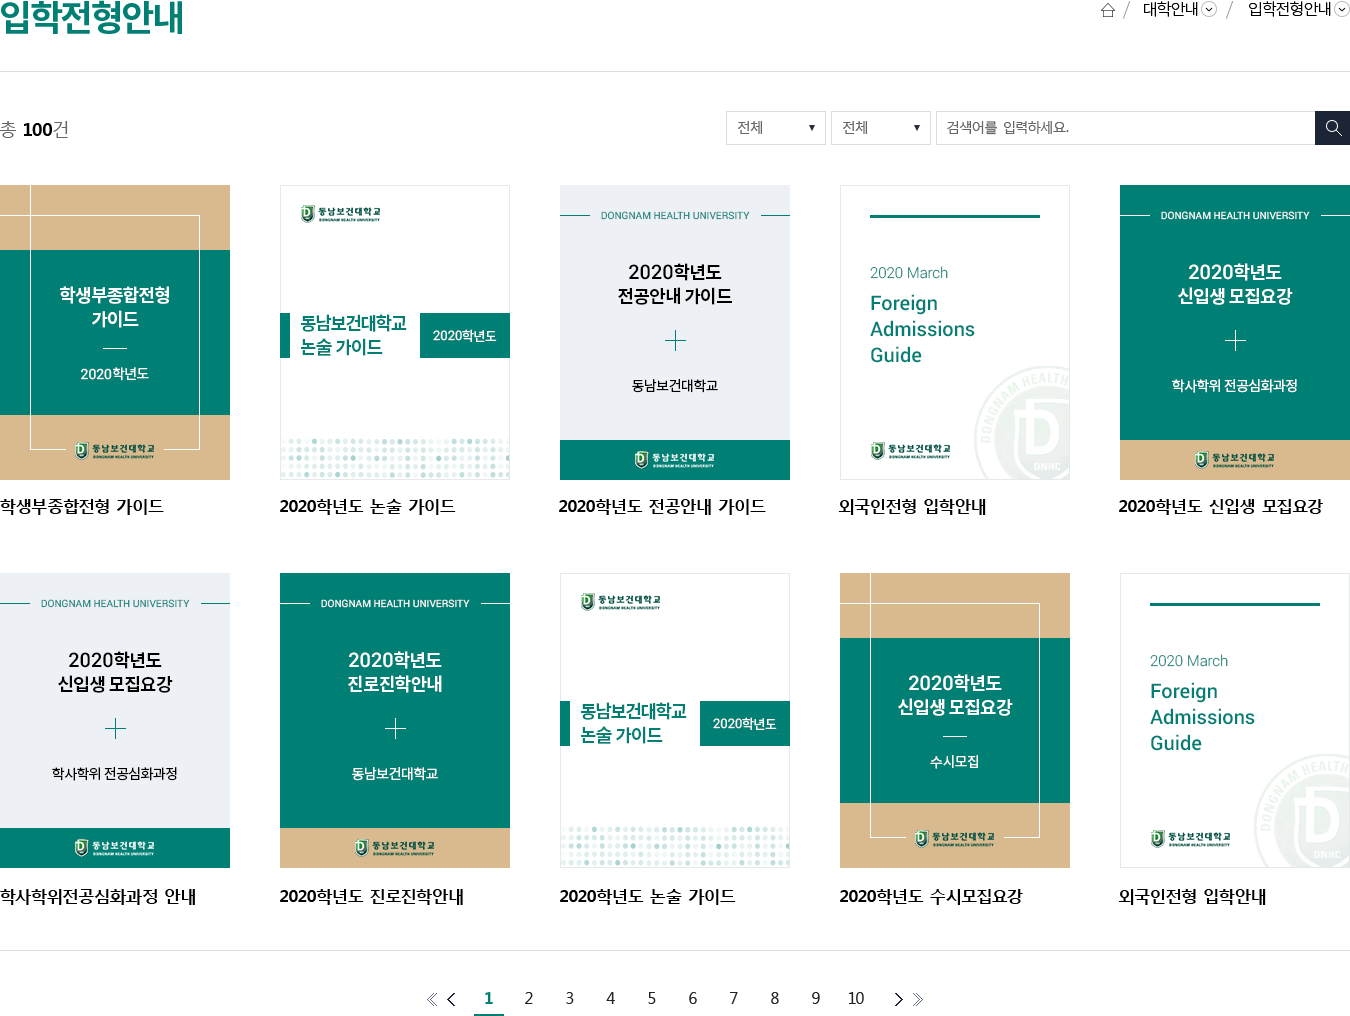
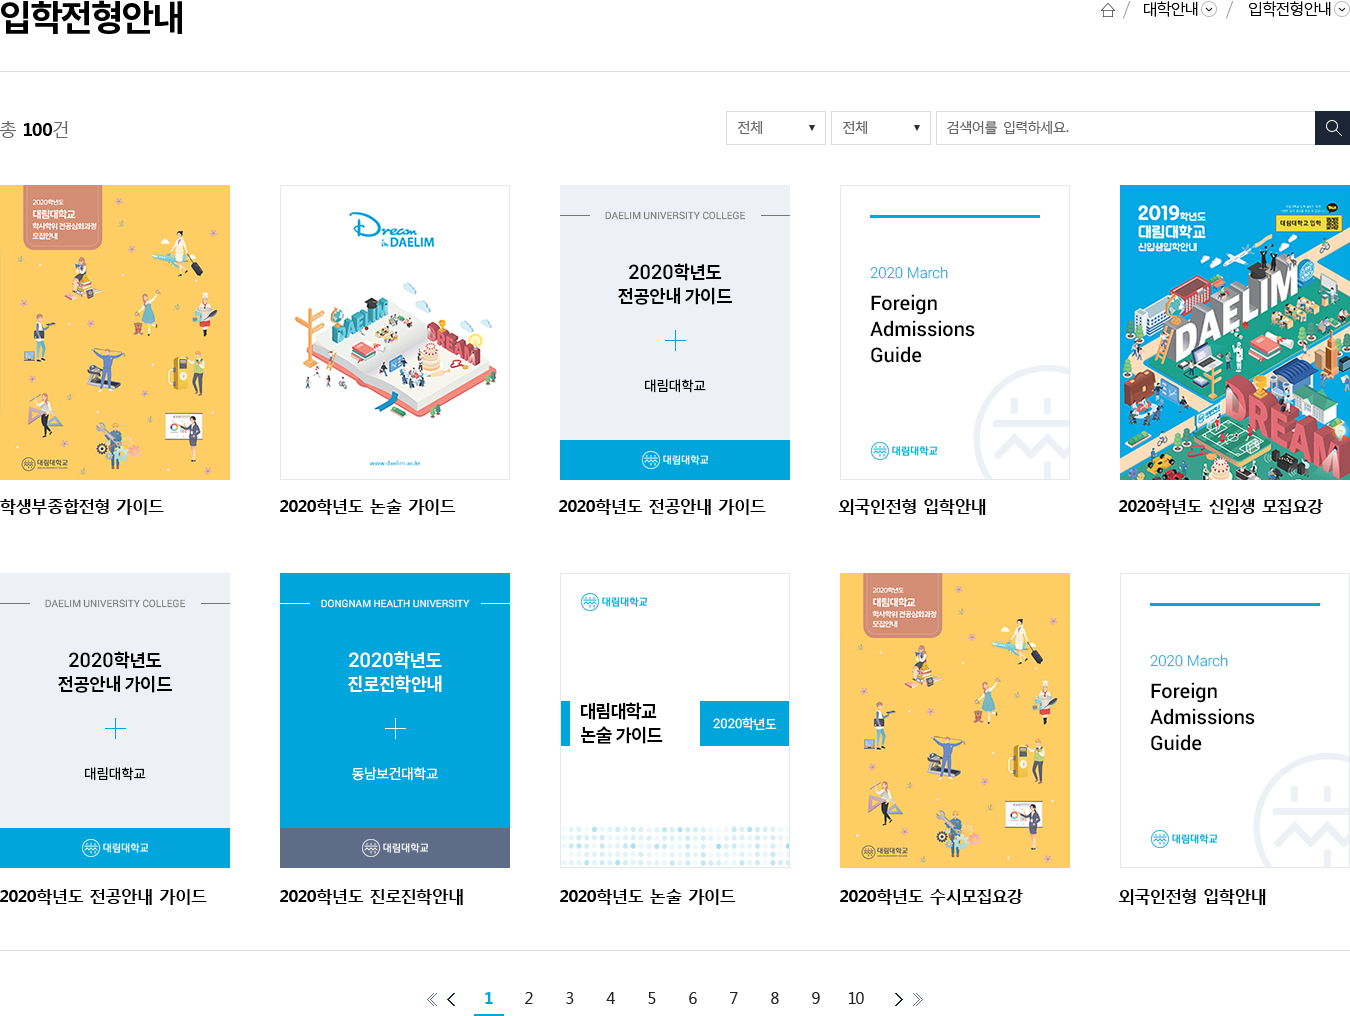
finish -m1

diff --git a/css/ipsi_a.css b/css/ipsi_a.css
@@ -28,7 +28,7 @@ figure {margin:0;padding:0}
 #header .header .gnb {overflow:hidden;padding-left:156px;padding-top:31px;border-top:2px solid #00a6db}
 #header .header .util {position:absolute;right:232px;top:34px;overflow:hidden;}
 .mVisual {padding-top:95px;text-align: center;background:#edf1f4}
-.mVisual .mainSl > span {position:absolute;display:block;width:100%;height:476px;background:#16b289;left:0}
+.mVisual .mainSl > span {position:absolute;display:block;width:100%;height:476px;background:#138add;left:0}
 .mVisual .pattern {position:absolute;width:47px;height:47px;border-radius:50%;left:120px;top:70px;opacity:0;animation:pattern 0.8s ease-out 0.7s forwards;background:#c585ff}
 @keyframes pattern {
     0% {
@@ -52,13 +52,14 @@ figure {margin:0;padding:0}
 .mVisual .mainSl .left .unit {position:relative;width:1078px;opacity: 1;}
 .mVisual .mainSl .left .slick-dots {position:absolute;margin-left:85px;margin-top:-90px;}
 .mVisual .mainSl .left .slick-dots li {display:inline-block;width:10px;height:10px;border-radius: 50%;background:#fff;opacity: 0.4;font-size:0;vertical-align: top;margin-left:10px;transition:0.5s all;}
-.mVisual .mainSl .left .slick-dots li.slick-active {width:35px;opacity: 1;border-radius: 30px;background:#00c1ff;}
+.mVisual .mainSl .left .slick-dots:after {content:'';position:absolute;display:block;margin-left:72px;margin-top:-22px;width:9px;height:12px;background:url(../img/ipsi_a/pause.png) no-repeat;}
 .mVisual .mainSl .left .txt {position:absolute;left:95px;top:160px;}
 .mVisual .mainSl .left .txt img {display:block;position:relative;opacity:0;left:-80px;}
 .mVisual .mainSl .left .txt img:first-child {margin-bottom:30px}
 .mVisual .mainSl .right {position:relative;float:left;width:362px;height:476px;opacity: 1;}
 .mVisual .mainSl .right .unit img {margin: 0 auto;}
 .mVisual .mainSl .right .slick-dots {position:absolute;left:50%;margin-left:-13px;margin-top:-40px;}
+.mVisual .mainSl .right .slick-dots:after {content:'';position:absolute;display:block;margin-left:36px;margin-top:-23px;width:9px;height:12px;background:url(../img/ipsi_a/pause.png) no-repeat;}
 .mVisual .mainSl .right .slick-dots li {display:inline-block;width:8px;height:8px;border-radius: 50%;background:#fff;opacity: 0.4;font-size:0;vertical-align: top;}
 .mVisual .mainSl .right .slick-dots li + li {margin-left:10px;}
 .mVisual .mainSl .right .slick-dots li.slick-active {opacity: 1;}

diff --git a/ipsi_b_sub.html b/ipsi_b_sub.html
@@ -1,11 +1,13 @@
 <!DOCTYPE html>
 <html lang="ko">
 <head>
+<!--[if IE 8]>    <html lang="kor" class="ie8"> <![endif]-->
 <meta charset="utf-8">
 <meta name="viewport" content="width=device-width, initial-scale=1.0">
 <meta http-equiv="X-UA-Compatible" content="ie=edge">
-<title>동남보건대학교</title>
-<script type="text/javascript" src="js/jquery-2.2.1.min.js"></script>
+<title>대림대학교</title>
+<script src="http://code.jquery.com/jquery-1.9.0.js"></script>
+<script src="http://code.jquery.com/jquery-migrate-1.2.1.js"></script>
 <script type="text/javascript" src="js/jquery.easing.1.3.js"></script>
 
 <script type="text/javascript" src="js/slick/slick.min.js"></script>
@@ -24,7 +26,6 @@ $(function(){
             var navTop = $('.nav').offset().top;
             var headerHeight = $(window).innerHeight() - 360;
             cont_loc = $(window).scrollTop();
-            console.log(cont_loc);
             console.log(headerHeight);
 
             if(cont_loc >= 360){
@@ -37,23 +38,23 @@ $(function(){
 });
 </script>
 <style>
-.logo {position:absolute;top:50px;left:230px !important;width:350px !important;height:90px !important;z-index: 100;}
+.logo {position:absolute;top:50px;left:230px !important;width:350px !important;height:90px !important;z-index: 100;background:red;-ms-filter:"progid:DXImageTransform.Microsoft.Alpha(Opacity=0)";opacity:0;}
 </style>
 </head>
 <body class="typeSub">
     <div class="wrap">
-        <header>
+        <div class="header">
             <div class="headerInner">
                 <a href="ipsi_b_mobile.html" class="logo"></a>
                 <img src="img/ipsi_b/sub/gnb.png" alt="">
             </div>
-        </header>
+        </div>
         <div id="container">
             <img src="img/ipsi_b/sub/cont.png" alt="">
         </div>
-        <footer>
+        <div class="footer">
             <img src="img/ipsi_b/sub/footer.png" alt="">
-        </footer>
+        </div>
     </div>
     
 

diff --git a/ipsi_a_mobile.html b/ipsi_a_mobile.html
@@ -2,14 +2,15 @@
 <!DOCTYPE html>
 <html lang="ko">
 <head>
+<!--[if IE 8]>    <html lang="kor" class="ie8"> <![endif]-->
 <meta charset="utf-8">
 <meta name="viewport" content="width=device-width, initial-scale=1.0">
 <meta http-equiv="X-UA-Compatible" content="ie=edge">
-<title>동남보건대학교</title>
-<script type="text/javascript" src="js/jquery-2.2.1.min.js"></script>
+<title>대림대학교</title>
+<script src="http://code.jquery.com/jquery-1.9.0.js"></script>
+<script src="http://code.jquery.com/jquery-migrate-1.2.1.js"></script>
 <script type="text/javascript" src="js/jquery.easing.1.3.js"></script>
 
-<script type="text/javascript" src="js/slick/slick.min.js"></script>
 <link rel="stylesheet" type="text/css" href="js/slick/slick.css"/>
 
 <script type="text/javascript" src="js/mCustomScrollbar/jquery.mCustomScrollbar.concat.min.js"></script>
@@ -19,19 +20,23 @@
 
 <script>
 $(function(){
-    $("#mobileBox>section").mCustomScrollbar();
+    if($('html').hasClass('ie8')){
+        
+    }else{
+        $("#mobileBox>.section").mCustomScrollbar();
+    }
 });
 </script>
 <style>
-#mobileBox>section .logo {width:150px;height:60px;}
+#mobileBox>.section .logo {width:150px;height:60px;}
 </style>
 </head>
 <body class="type_mobile" style="overflow-y:hidden;">
     <div id="mobileBox">
-        <section>
+        <div class="section">
             <a href="kor_b_main.html" class="logo"></a>
-            <img src="img/kor_a/mobile_ipsi_sub.jpg" />
-        </section>
+            <img src="img/ipsi_a/mobile.jpg" />
+        </div>
     </div>
 
 </body>

diff --git a/css/kor_a.css b/css/kor_a.css
@@ -187,9 +187,8 @@ body.typeSub {overflow-x:hidden;overflow-y:auto;}
 body.typeSub #header header .util {position:fixed;}
 body.typeSub.typeSticky #header header .util .top_util {top:-9px;}
 .typeSub .quick {position:fixed;right:90px;top:430px;z-index:1000}
-
 #pcBox .logo,
-#mobileBox .logo {display:block;position:absolute;left:0;top:0;width:50%;height:50px;z-index:10;/*background:red;opacity:0.5;*/}
+#mobileBox .logo {display:block;position:absolute;left:0;top:0;width:50%;height:50px;z-index:9999;background:red;-ms-filter:"progid:DXImageTransform.Microsoft.Alpha(Opacity=0)";opacity:0;}
 #pcBox div,
 #mobileBox div {font-size:0;}
 
@@ -197,8 +196,6 @@ body.typeSub.typeSticky #header header .util .top_util {top:-9px;}
 #pcBox {position:relative;width:1920px;margin:0 auto;}
 
 /* 모바일 */
-#mobileBox {position:relative;left:50%;top:50%;overflow:hidden;width:475px;height:838px;transform:translate(-50%, -50%);background:url(../img/bg_phone.png) no-repeat left top;}
-#mobileBox>section {position:relative;overflow-x:hidden;overflow-y:auto;width:345px;height:655px;margin:81px 0 0 65px;font-size:0;}
-#mobileBox>section img {width:100%;max-width:100%;}
-
-sub
+#mobileBox {position:relative;left:50%;top:50%;overflow:hidden;width:475px;height:838px;margin-top:-419.5px;margin-left:-287.5px;top:50%;left:50%;background:url(../img/bg_phone.png) no-repeat left top;}
+#mobileBox>.section {position:relative;overflow-x:hidden;overflow-y:auto;width:345px;height:655px;margin:81px 0 0 65px;font-size:0;}
+#mobileBox>.section img {width:100%;max-width:100%;}

diff --git a/ipsi_b_mobile.html b/ipsi_b_mobile.html
@@ -2,13 +2,14 @@
 <!DOCTYPE html>
 <html lang="ko">
 <head>
+<!--[if IE 8]>    <html lang="kor" class="ie8"> <![endif]-->
 <meta charset="utf-8">
 <meta name="viewport" content="width=device-width, initial-scale=1.0">
 <meta http-equiv="X-UA-Compatible" content="ie=edge">
-<title>동남보건대학교</title>
-<script type="text/javascript" src="js/jquery-2.2.1.min.js"></script>
+<title>대림대학교</title>
+<script src="http://code.jquery.com/jquery-1.9.0.js"></script>
+<script src="http://code.jquery.com/jquery-migrate-1.2.1.js"></script>
 <script type="text/javascript" src="js/jquery.easing.1.3.js"></script>
-
 <script type="text/javascript" src="js/slick/slick.min.js"></script>
 <link rel="stylesheet" type="text/css" href="js/slick/slick.css"/>
 
@@ -18,9 +19,13 @@
 <link rel="stylesheet" type="text/css" href="css/kor_a.css" />
 
 <script>
-$(function(){
-    $("#mobileBox>section").mCustomScrollbar();
-});
+    $(function () {
+        if ($('html').hasClass('ie8')) {
+
+        } else {
+            $("#mobileBox>.section").mCustomScrollbar();
+        }
+    });
 </script>
 <style>
 #mobileBox>section .logo {width:150px;height:60px;}
@@ -30,10 +35,10 @@ body {overflow-y:hidden}
 <body class="type_mobile">
 
     <div id="mobileBox">
-        <section>
+        <div class="section">
             <a href="temp_a_main.html" class="logo"></a>
-            <img src="img/kor_b/mobile_ipsi_sub.jpg" />
-        </section>
+            <img src="img/ipsi_b/mobile.jpg" />
+        </div>
     </div>
 
 </body>

diff --git a/css/ipsi_b_sub.css b/css/ipsi_b_sub.css
@@ -24,10 +24,10 @@ figure {margin:0;padding:0}
 body.typePride {overflow:hidden;}
 
 .wrap {position:relative;overflow-x:hidden;width:100%;margin:0 auto;text-align: center;font-size: 0;}
-header {font-size:0;background:url(../img/ipsi_b/sub/gnbbg.png) repeat-x;}
-header  img {position: relative;}
-header .headerInner {position:relative;max-width:1920px;margin: 0 auto;}
+.header {font-size:0;background:url(../img/ipsi_b/sub/gnbbg.png) repeat-x;}
+.header  img {position: relative;}
+.header .headerInner {position:relative;max-width:1920px;margin: 0 auto;}
 .subVisual {position:relative;margin-top:-90px;z-index:-1;font-size: 0;}
 #container {padding-top:53px;}
 div {font-size: 0;}
-footer{margin-top:110px;font-size: 0;background:url(../img/ipsi_b/sub/footerbg.png) repeat-x;}
+.footer{margin-top:110px;font-size: 0;background:url(../img/ipsi_b/sub/footerbg.png) repeat-x;}

diff --git a/ipsi_a_main.html b/ipsi_a_main.html
@@ -205,7 +205,7 @@
                         </div>
                         <div class="right">
                             <div class="unit">
-                                <img src="img/ipsi_a/mright1.png" alt="">
+                                <img src="img/ipsi_a/mright2.png" alt="">
                             </div>
                             <div class="unit">
                                 <img src="img/ipsi_a/mright2.png" alt="">
